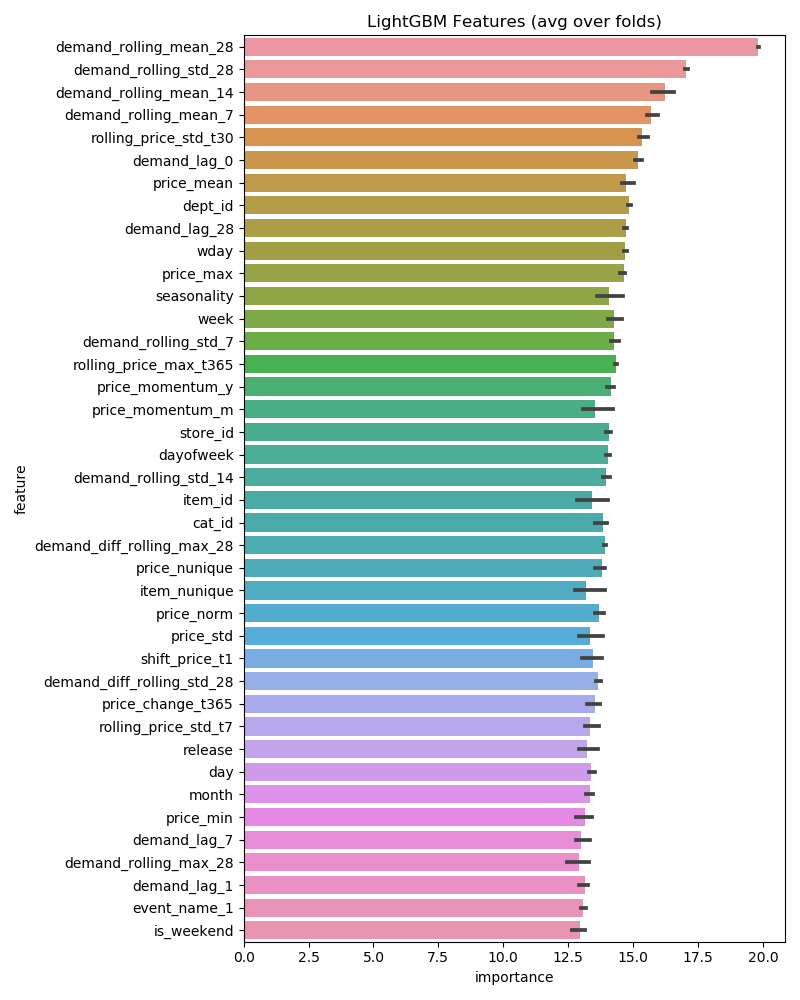
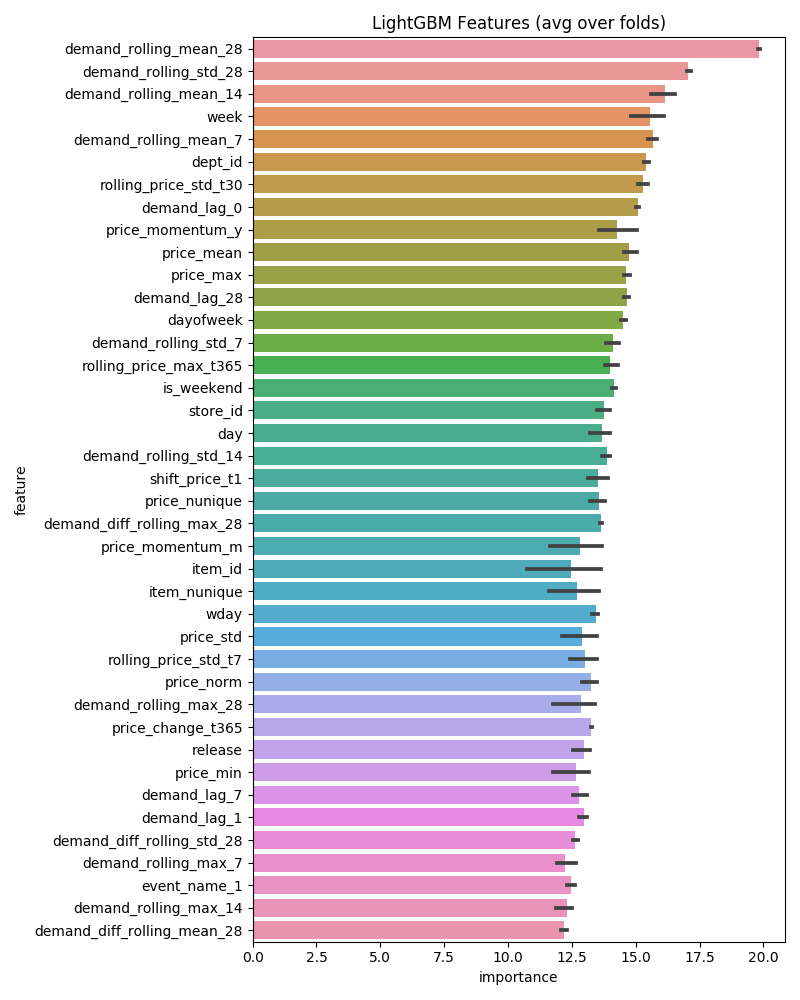
LB#32 & #33 categorical feature

diff --git a/src/204_train_lgbm_custom_cv.py b/src/204_train_lgbm_custom_cv.py
@@ -15,7 +15,7 @@ from glob import glob
 from tqdm import tqdm
 
 from utils import line_notify, to_json, rmse, save2pkl, submit
-from utils import NUM_FOLDS, FEATS_EXCLUDED, COLS_TEST1, COLS_TEST2, DAYS_PRED
+from utils import NUM_FOLDS, FEATS_EXCLUDED, COLS_TEST1, COLS_TEST2, DAYS_PRED, CAT_COLS
 from utils import CustomTimeSeriesSplitter
 
 #==============================================================================
@@ -57,6 +57,7 @@ def kfold_lightgbm(train_df, test_df, num_folds, debug=False):
     sub_preds = np.zeros(test_df.shape[0])
     feature_importance_df = pd.DataFrame()
     feats = [f for f in train_df.columns if f not in FEATS_EXCLUDED]
+    cat_cols = [c for c in CAT_COLS if c in feats]
     valid_idxs=[]
 
     # k-fold
@@ -70,14 +71,17 @@ def kfold_lightgbm(train_df, test_df, num_folds, debug=False):
         # set data structure
         lgb_train = lgb.Dataset(train_x,
                                 label=train_y,
+                                categorical_feature=cat_cols,
                                 free_raw_data=False)
+
         lgb_test = lgb.Dataset(valid_x,
                                label=valid_y,
+                               categorical_feature=cat_cols,
                                free_raw_data=False)
 
         params ={
-#                'device' : 'gpu',
-#                'gpu_use_dp':True,
+                'device' : 'gpu',
+                'gpu_use_dp':True,
                 'task': 'train',
                 'boosting': 'gbdt',
                 'objective': 'poisson',
@@ -162,7 +166,7 @@ def kfold_lightgbm(train_df, test_df, num_folds, debug=False):
         preds.to_csv(submission_file_name, index=False)
 
         # submission by API
-        submit(submission_file_name, comment='model201 cv: %.6f' % full_rmse)
+        submit(submission_file_name, comment='model204 cv: %.6f' % full_rmse)
 
 def main(debug=False):
     with timer("Load Datasets"):

diff --git a/src/203_train_lgbm_all_data.py b/src/203_train_lgbm_all_data.py
@@ -56,16 +56,18 @@ def train_lightgbm(train_df,test_df,debug=False):
     sub_preds = np.zeros(test_df.shape[0])
     feature_importance_df = pd.DataFrame()
     feats = [f for f in train_df.columns if f not in FEATS_EXCLUDED]
+    cat_cols = [c for c in CAT_COLS if c in feats]
 
     # set data structure
     lgb_train = lgb.Dataset(train_df[feats],
                             label=train_df['demand'],
+                            categorical_feature=cat_cols,
                             free_raw_data=False)
 
     # params optimized by optuna
     params ={
-#            'device' : 'gpu',
-#            'gpu_use_dp':True,
+            'device' : 'gpu',
+            'gpu_use_dp':True,
             'task': 'train',
             'boosting': 'gbdt',
             'objective': 'poisson',
